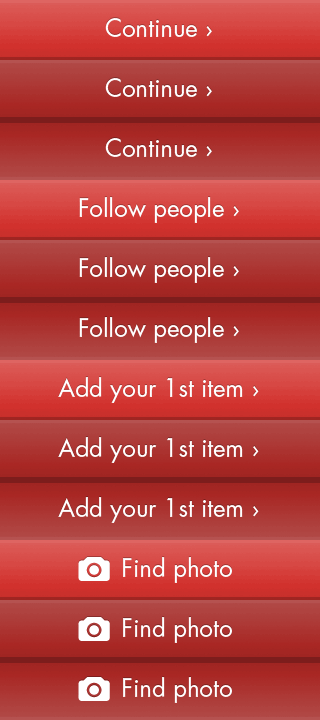
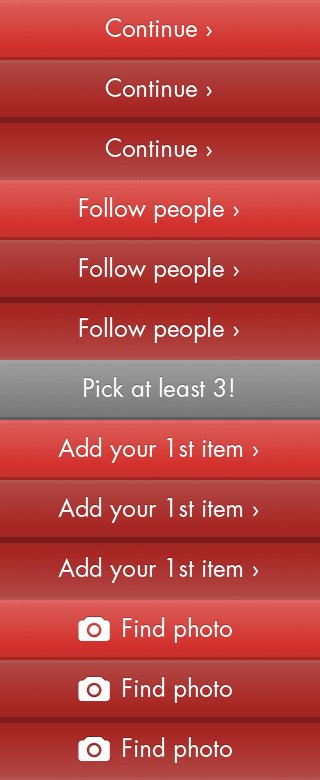
< 3 stores disactivated button state

diff --git a/public/stylesheets/application.css b/public/stylesheets/application.css
@@ -512,13 +512,15 @@ body {
 #pic_bg #container .follow_people:hover { background-position: 0 -240px; }
 #pic_bg #container .follow_people:active { background-position: 0 -300px; }
 
+#pic_bg #container .follow_people.disactivated { background-position: 0 -360px; }
+
 #pic_bg #container .add_1st_item { 
-	background-position: 0 -360px;
+	background-position: 0 -420px;
 	margin-bottom: 40px;  
 
 }
-#pic_bg #container .add_1st_item:hover { background-position: 0 -420px; }
-#pic_bg #container .add_1st_item:active { background-position: 0 -480px; }
+#pic_bg #container .add_1st_item:hover { background-position: 0 -480px; }
+#pic_bg #container .add_1st_item:active { background-position: 0 -540px; }
 
 #pic_bg #container #users .picker_choice .tiles {
 	position: absolute;
